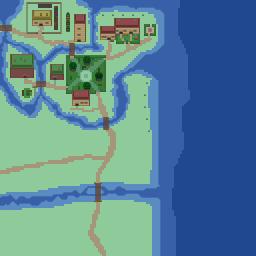
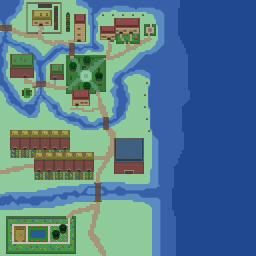
fixed typo in layer name in ados city ran ant convertmaps

diff --git a/src/games/stendhal/server/StendhalRPWorld.java b/src/games/stendhal/server/StendhalRPWorld.java
@@ -187,7 +187,7 @@ public class StendhalRPWorld extends RPWorld {
 		addArea("0_ados_rock");
 		addArea("0_ados_outside_w");
 		// addArea("0_ados_city_w");
-		// addArea("0_ados_city");
+		addArea("0_ados_city");
 
 		addArea("0_orril_mountain_nw");
 		addArea("0_orril_forest_n");
